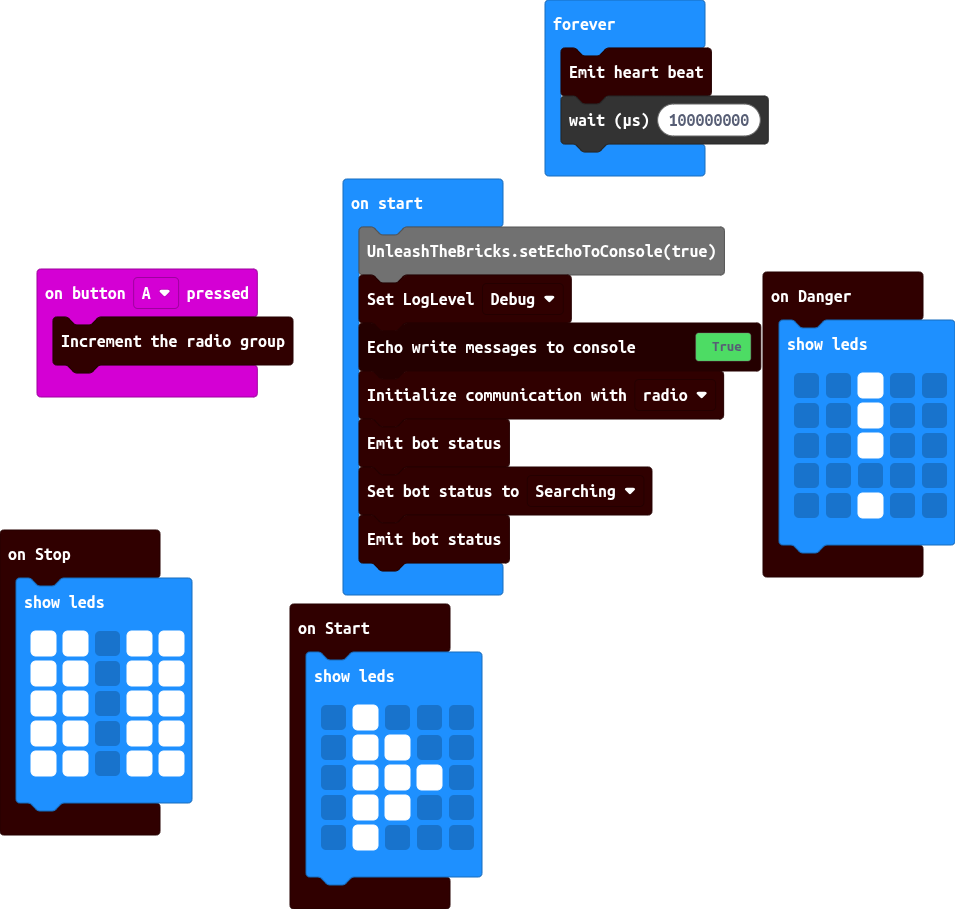
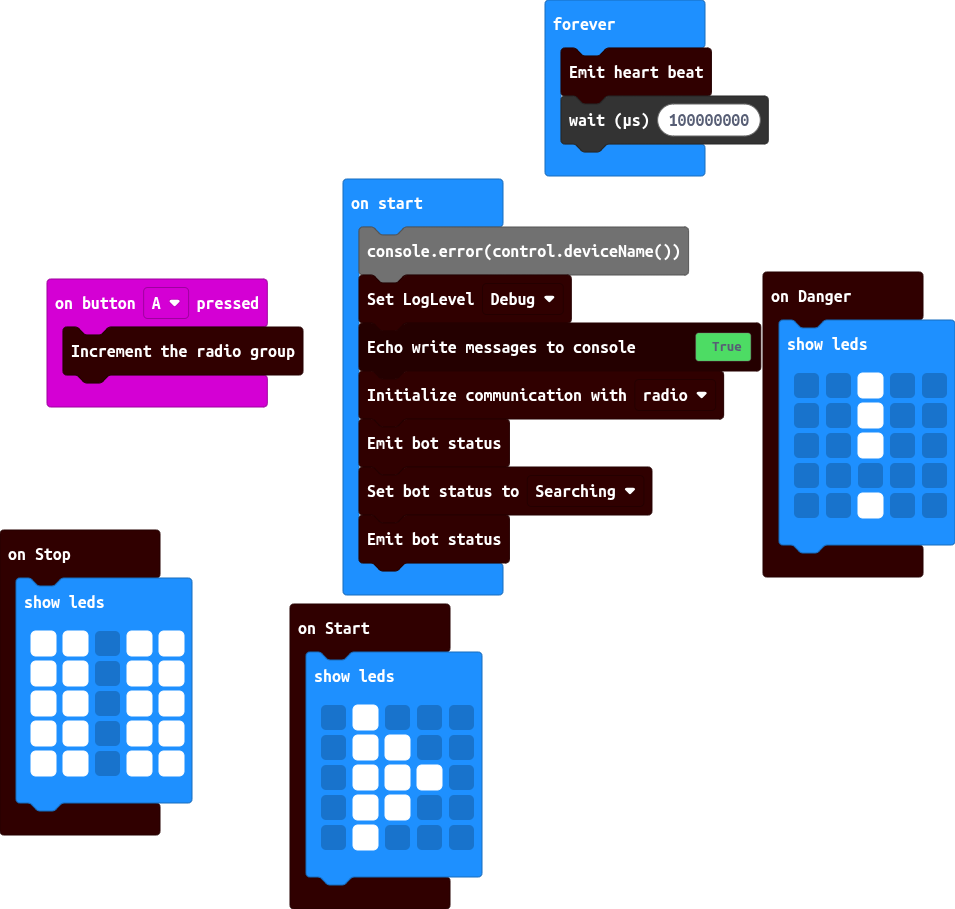
Update pxt.json, main.blocks, main.ts

diff --git a/main.ts b/main.ts
@@ -1,4 +1,3 @@
-console.error(control.deviceName())
 UnleashTheBricks.onMessageStopReceived(function () {
     basic.showLeds(`
         # # . # #
@@ -29,7 +28,7 @@ UnleashTheBricks.onMessageStartReceived(function () {
         . # . . .
         `)
 })
-UnleashTheBricks.setEchoToConsole(true)
+console.error(control.deviceName())
 UnleashTheBricks.setLogLevel(LogLevel.Debug)
 UnleashTheBricks.setEchoToConsole(true)
 UnleashTheBricks.initCommunicationChannel(CommunicationChannel.Radio)
@@ -40,4 +39,3 @@ basic.forever(function () {
     UnleashTheBricks.emitHeartBeat()
     control.waitMicros(100000000)
 })
-
